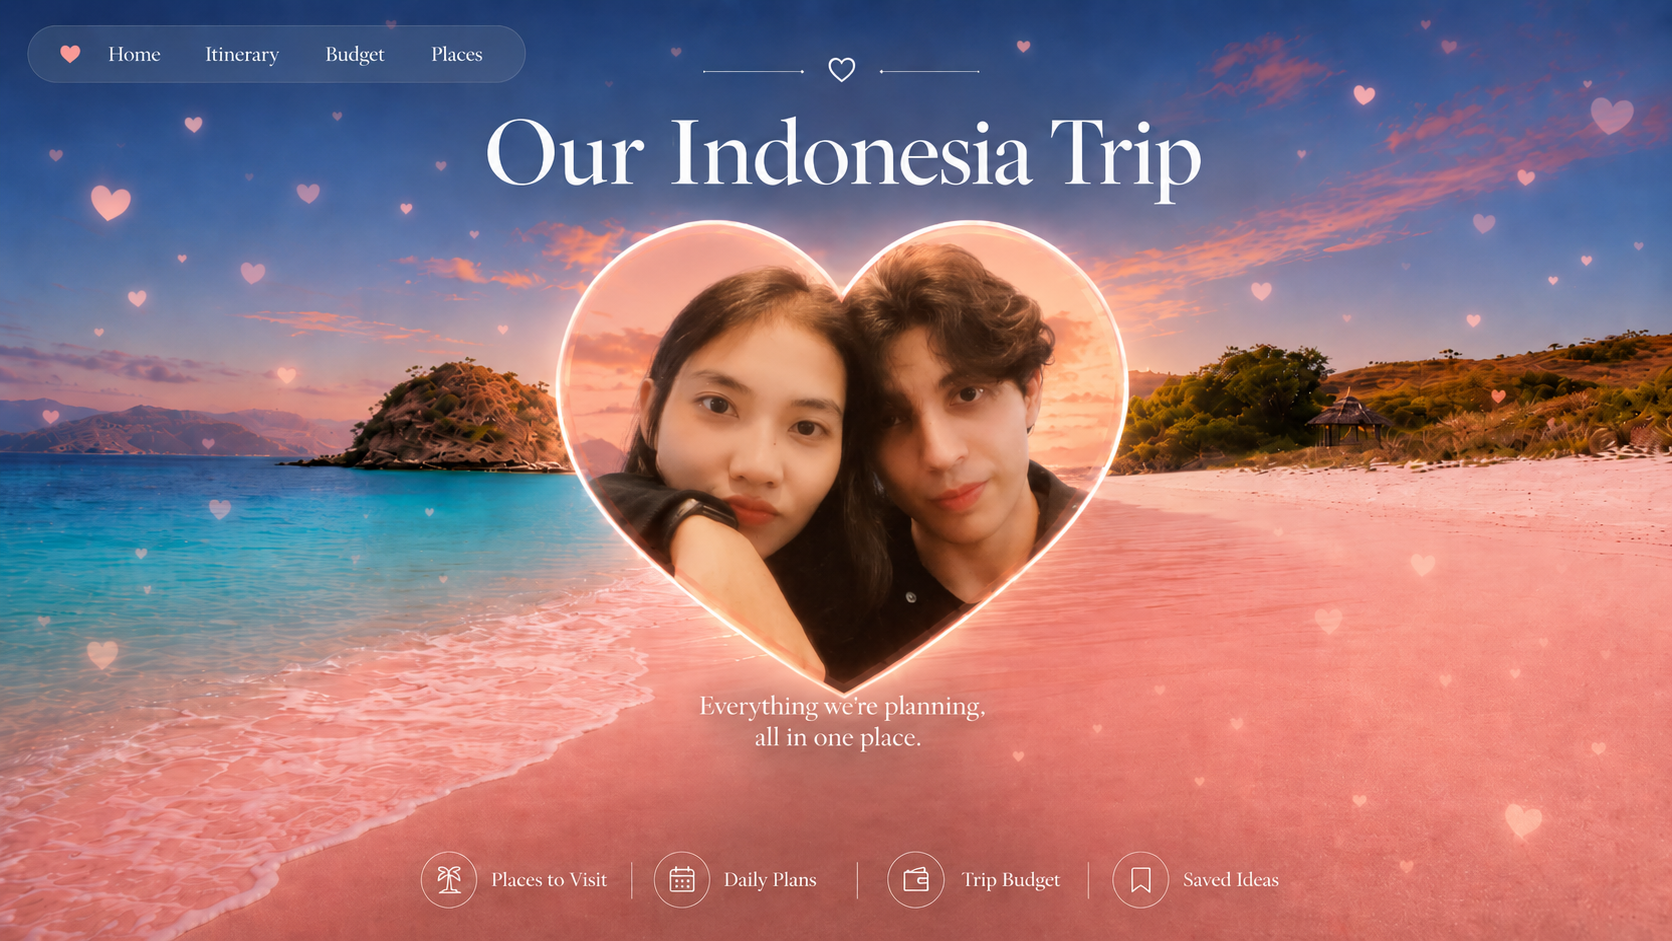
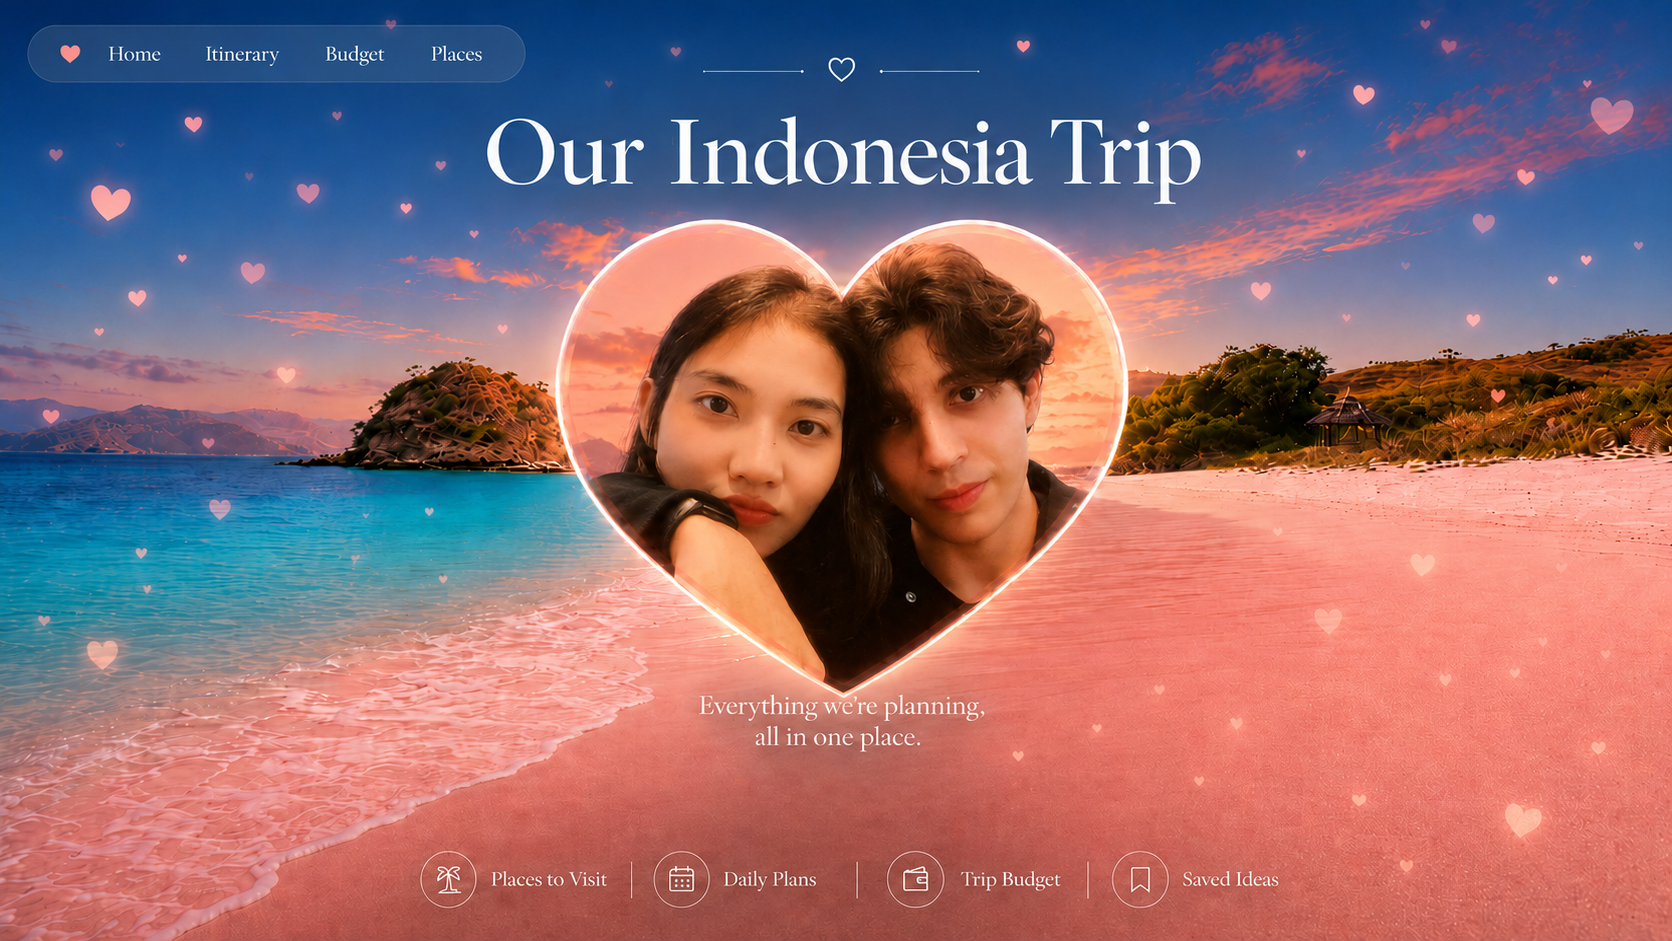
Make welcome page persistent home section

diff --git a/src/main.js b/src/main.js
@@ -11,7 +11,6 @@ const tripId = ensureTripId();
 let trip = normalizeTrip(loadTrip(tripId), tripId);
 let page = location.hash.replace("#", "") || "home";
 let editing = null;
-let showWelcome = localStorage.getItem(welcomeStorageKey()) !== "opened";
 let config = { supabaseUrl: "", supabaseAnonKey: "" };
 let onlineState = {
   loading: true,
@@ -112,7 +111,6 @@ function shell(content) {
         <p>${escapeHtml(trip.meta.travelers)}</p>
       </div>
       <div class="header-actions">
-        <button class="ghost-button" data-action="view-welcome" type="button">Welcome</button>
         <form class="budget-form" data-action="save-meta">
           <label>
             Trip budget
@@ -133,6 +131,13 @@ function renderWelcome() {
   app.innerHTML = `
     <main class="welcome-page">
       <img class="welcome-hero-image" src="/welcome-hero.png" alt="Our Indonesia Trip welcome artwork" />
+      <nav class="welcome-nav" aria-label="Trip sections">
+        <a class="active" href="#home">♥</a>
+        <a href="#home">Home</a>
+        <a href="#itinerary">Itinerary</a>
+        <a href="#budget">Budget</a>
+        <a href="#places">Places</a>
+      </nav>
       <div class="welcome-overlay">
         <button class="welcome-button" data-action="open-trip" type="button">Open Planner</button>
       </div>
@@ -450,13 +455,8 @@ document.addEventListener("click", (event) => {
   const { action, id } = target.dataset;
 
   if (action === "open-trip") {
-    localStorage.setItem(welcomeStorageKey(), "opened");
-    showWelcome = false;
-    return render();
-  }
-
-  if (action === "view-welcome") {
-    showWelcome = true;
+    page = "budget";
+    history.replaceState(null, "", `${location.pathname}#budget`);
     return render();
   }
 
@@ -545,8 +545,7 @@ window.addEventListener("hashchange", () => {
 });
 
 function render() {
-  if (showWelcome) return renderWelcome();
-  if (page === "home") return renderBudget();
+  if (page === "home") return renderWelcome();
   if (page === "places") return renderPlaces();
   if (page === "itinerary") return renderItinerary();
   if (page === "compare") return renderCompare();
@@ -613,10 +612,6 @@ function sanitizeTripSlug(value) {
     .replace(/[^a-z0-9-]+/g, "-")
     .replace(/^-+|-+$/g, "")
     .slice(0, 80);
-}
-
-function welcomeStorageKey() {
-  return `trip-planner-welcome-v2-opened:${tripId}`;
 }
 
 function normalizeTrip(value, id) {

diff --git a/src/styles.css b/src/styles.css
@@ -404,6 +404,37 @@ aside {
   z-index: 1;
 }
 
+.welcome-nav {
+  position: absolute;
+  top: clamp(16px, 3vw, 28px);
+  left: clamp(16px, 3vw, 32px);
+  display: flex;
+  align-items: center;
+  gap: clamp(14px, 3vw, 34px);
+  max-width: calc(100vw - 32px);
+  overflow-x: auto;
+  border: 1px solid rgba(255, 255, 255, 0.18);
+  border-radius: 999px;
+  background: rgba(255, 255, 255, 0.14);
+  padding: 11px 22px;
+  box-shadow: 0 16px 36px rgba(17, 31, 66, 0.18);
+  backdrop-filter: blur(10px);
+  z-index: 2;
+}
+
+.welcome-nav a {
+  color: white;
+  font-size: clamp(0.95rem, 1.45vw, 1.2rem);
+  font-weight: 600;
+  text-shadow: 0 1px 10px rgba(18, 35, 74, 0.3);
+  white-space: nowrap;
+}
+
+.welcome-nav a.active {
+  color: #ff99aa;
+  font-size: 1.2rem;
+}
+
 .welcome-button {
   min-height: 50px;
   border-color: rgba(255, 255, 255, 0.72);
@@ -443,5 +474,12 @@ aside {
 
   .welcome-hero-image {
     object-fit: contain;
+  }
+
+  .welcome-nav {
+    left: 12px;
+    right: 12px;
+    justify-content: flex-start;
+    padding: 9px 14px;
   }
 }
